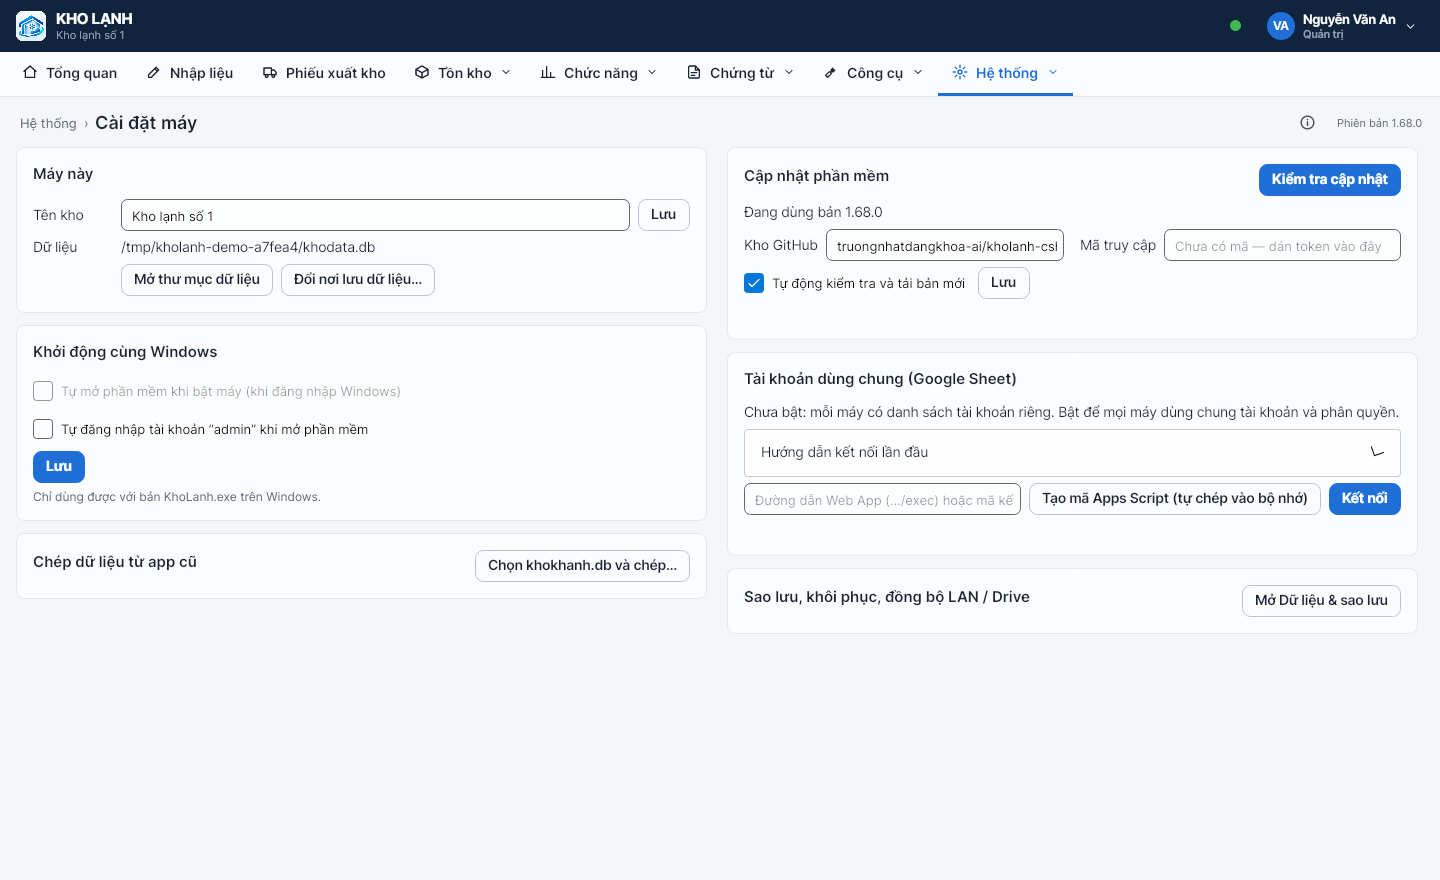
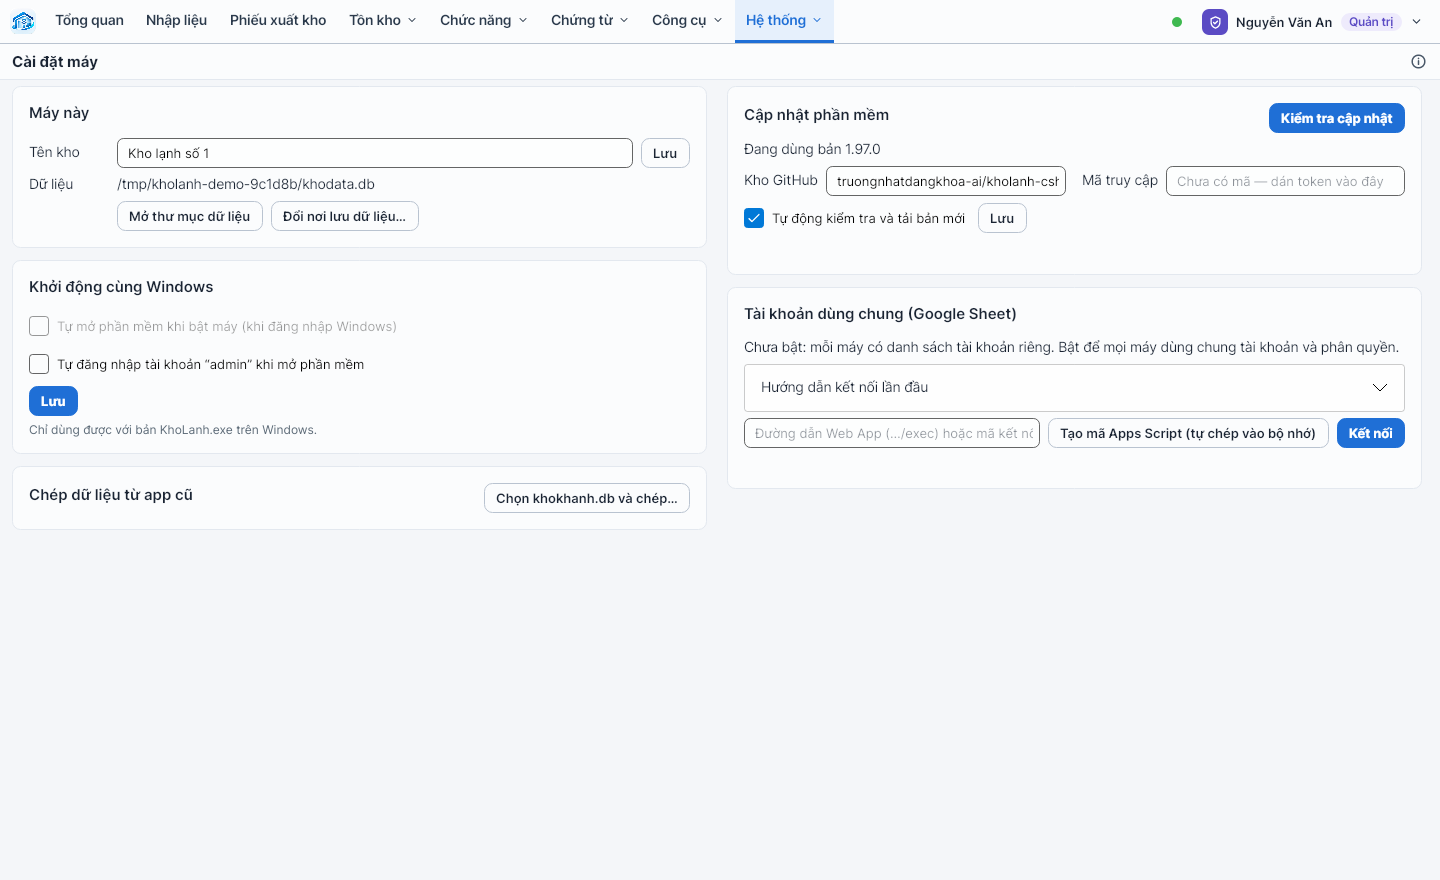
1.98.0: sắp xếp Hệ thống (Cài đặt máy gọn, bỏ máy ở nhà) + báo rõ lỗi tạo tài khoản
- Cài đặt máy: Chép dữ liệu từ app cũ chỉ Quản trị; bỏ khung Sao lưu / khôi phục
  (đã có ở Dữ liệu & sao lưu).
- Bỏ chế độ "máy ở nhà" của đồng bộ Drive (đã có Drive cá nhân).
- Tài khoản dùng chung: Web App trả lời kiểu app điện thoại (AUTH) → báo đường
  dẫn trỏ nhầm Web App điện thoại và cách sửa, thay câu khó hiểu.

Claude-Session: https://claude.ai/code/session_01CcL5zKPX6MXqPbz7cZL3gY

diff --git a/src/KhoLanh.App/Views/DriveSyncView.cs b/src/KhoLanh.App/Views/DriveSyncView.cs
@@ -31,7 +31,6 @@ public sealed class DriveSyncView : UserControl, IPage
     private StackPanel _planBox = null!;
     private readonly Dictionary<string, CheckBox> _mainBoxes = new(StringComparer.OrdinalIgnoreCase);
     private readonly DispatcherTimer _timer = new() { Interval = TimeSpan.FromSeconds(3) };
-    private readonly CheckBox _home = new() { Content = "Máy này ở NHÀ — luôn là máy xem từ xa, không tự nhận làm máy chính (máy công ty mở lại là tự gộp việc làm ở nhà)" };
     private readonly ComboBox _every = new() { ItemsSource = DriveSyncService.Intervals.Select(x => x.Label).ToList(), MinWidth = 330 };
     private readonly ListBox _bk = new() { Height = 150 };
     private readonly TextBlock _bkMsg = new() { Classes = { "muted" }, FontSize = 12, TextWrapping = TextWrapping.Wrap };
@@ -83,17 +82,15 @@ public sealed class DriveSyncView : UserControl, IPage
         planBtns.Children.Add(Btn("Lưu phân vai", async () => await SavePlan(), primary: true));
         planBtns.Children.Add(Btn("Chỉ lưu thư mục máy này", async () => { if (await Ui.Run(this, () => Svc.SetFolder((_dir.Text ?? "").Trim()))) _msg.Text = "Đã lưu thư mục Drive của máy này."; await Task.CompletedTask; }));
         planBtns.Children.Add(Btn("Chiếm quyền máy chính", async () => await Force()).Also(x => ToolTip.SetTip(x, "Chỉ dùng khi máy chính cũ đã tắt / treo.")));
-        // ----- máy ở nhà · chu kỳ
-        _home.Content = "Máy này ở NHÀ — luôn là máy xem từ xa";
-        ToolTip.SetTip(_home, "Ban ngày dùng LAN ở công ty; ban đêm máy ở nhà đồng bộ qua Drive. Việc làm ở nhà được máy chủ công ty tự gộp khi mở lại (trùng dòng → Quản trị chọn ở Mạng LAN).");
+        // ----- chu kỳ đồng bộ (1.98: bỏ chế độ "máy ở nhà" — đã có Drive cá nhân)
         _every.MinWidth = 200;
         var everyRow = new StackPanel { Orientation = Orientation.Horizontal, Spacing = 8, Children = { new TextBlock { Text = "Đồng bộ mỗi", VerticalAlignment = VerticalAlignment.Center }, _every, Btn("Lưu", async () => await SaveHome(), primary: true) } };
         // ----- sao lưu trên Drive
         _bkNow = Btn("☁ Sao lưu lên Drive ngay", async () => await BackupNow());
         var bkDl = Btn("⬇ Tải bản đã chọn về file .db…", async () => await DownloadSel());
-        ToolTip.SetTip(bkDl, "Máy công ty: tải về rồi khôi phục ở Sao lưu và cài đặt (Quản trị).");
+        ToolTip.SetTip(bkDl, "Máy công ty: tải về rồi khôi phục ở Cài đặt máy (Quản trị).");
         _bkRestore = Btn("⏪ Khôi phục máy này", async () => await RestoreSel());
-        ToolTip.SetTip(_bkRestore, "Máy ở nhà: chỉ ảnh hưởng máy này.");
+        ToolTip.SetTip(_bkRestore, "Máy xem từ xa: chỉ ảnh hưởng máy này.");
         var bkBtns = new WrapPanel { ItemSpacing = 6, LineSpacing = 6 };
         bkBtns.Children.Add(_bkNow); bkBtns.Children.Add(bkDl); bkBtns.Children.Add(_bkRestore); bkBtns.Children.Add(Btn("Tải lại", () => { LoadBackups(); return Task.CompletedTask; }));
         _bk.Height = 220;
@@ -102,7 +99,7 @@ public sealed class DriveSyncView : UserControl, IPage
         left.Children.Add(Card("Vai của máy này", null, _off, _main, _remote, new TextBlock { Text = "Thư mục Google Drive", FontSize = 12.5 }, dirRow, _mainPanel, _codePanel, buttons, _msg));
         left.Children.Add(Card("Phân vai theo tài khoản", "Khuyên dùng: không bao giờ có hai máy chính cùng ghi đè nhau.", _planOn, _planBox, planBtns));
         var right = new StackPanel { Spacing = 12 };
-        right.Children.Add(Card("Máy ở nhà & chu kỳ đồng bộ", null, _home, everyRow));
+        right.Children.Add(Card("Chu kỳ đồng bộ", null, everyRow));
         right.Children.Add(Card("Sao lưu trên Google Drive", "Máy chính tự sao lưu lên Drive mỗi ngày (mã hóa); giữ 14 ngày gần nhất + 1 bản mỗi tháng trong 12 tháng.", _bk, bkBtns, _bkMsg));
         var cols = new Grid { ColumnDefinitions = new ColumnDefinitions("*,*"), ColumnSpacing = 14 };
         cols.Children.Add(left); Grid.SetColumn(right, 1); cols.Children.Add(right);
@@ -121,7 +118,6 @@ public sealed class DriveSyncView : UserControl, IPage
         _dir.Text = Svc.Dir; _code.Text = "";
         _off.IsChecked = Svc.Mode == DriveSyncService.ModeOff; _main.IsChecked = Svc.Mode == DriveSyncService.ModeMain; _remote.IsChecked = Svc.Mode == DriveSyncService.ModeRemote;
         ShowPanels(); Refresh(); LoadPlan();
-        _home.IsChecked = Svc.IsHome;
         _every.SelectedIndex = Math.Max(0, Array.FindIndex(DriveSyncService.Intervals, x => x.Sec == Svc.IntervalSeconds));
         LoadBackups();
     }
@@ -139,15 +135,14 @@ public sealed class DriveSyncView : UserControl, IPage
 
     private async Task SaveHome()
     {
-        var sec = DriveSyncService.Intervals[Math.Max(0, _every.SelectedIndex)].Sec; var home = _home.IsChecked == true;
+        var sec = DriveSyncService.Intervals[Math.Max(0, _every.SelectedIndex)].Sec;
         if (!await Ui.Run(this, () =>
         {
             App.Services.Session.Require("backup");
-            Svc.SetHome(home); Svc.SetInterval(sec);
-            if (home && Svc.Mode == DriveSyncService.ModeMain && Svc.Enabled) { Svc.ReleaseOnExit(); Svc.BecomeRemote(App.Services); }
+            Svc.ClearOldHomeFlag(); Svc.SetInterval(sec);
             Svc.Stop(); Svc.Start();
         })) return;
-        _msg.Text = "Đã lưu: " + (home ? "máy ở nhà (luôn là máy xem từ xa)" : "máy bình thường") + " · đồng bộ " + DriveSyncService.Intervals[Math.Max(0, _every.SelectedIndex)].Label + ".";
+        _msg.Text = "Đã lưu: đồng bộ " + DriveSyncService.Intervals[Math.Max(0, _every.SelectedIndex)].Label + ".";
         Load();
     }
 
@@ -186,7 +181,7 @@ public sealed class DriveSyncView : UserControl, IPage
         _planBox.Children.Clear(); _mainBoxes.Clear();
         var acc = App.Services.Accounts; var plan = acc.Plan; var dp = plan?.Drive ?? new DrivePlan();
         _planOn.IsChecked = dp.On; _planOn.IsEnabled = acc.CanWrite;
-        if (!acc.Enabled) { _planBox.Children.Add(Note("Cần bật Tài khoản dùng chung (Google Sheet) ở Sao lưu và cài đặt để lưu phân vai.")); return; }
+        if (!acc.Enabled) { _planBox.Children.Add(Note("Cần bật Tài khoản dùng chung (Google Sheet) ở Cài đặt máy để lưu phân vai.")); return; }
         foreach (var u in App.Services.Auth.ListUsers().Where(u => u.IsActive).OrderBy(u => u.Username, StringComparer.OrdinalIgnoreCase))
         {
             var cb = new CheckBox { Content = $"{u.Username} — {u.FullName}  (máy chính)", IsChecked = dp.IsMain(u.Username), IsEnabled = acc.CanWrite };

diff --git a/src/KhoLanh.Core/Services/AccountSyncService.cs b/src/KhoLanh.Core/Services/AccountSyncService.cs
@@ -293,7 +293,7 @@ public class AccountSyncService
     /// </summary>
     public async Task<LanPlan> UpdatePlanAsync(Func<LanPlan, bool> change, CancellationToken ct = default)
     {
-        if (!Enabled) throw new BusinessException("Chưa bật tài khoản dùng chung (Google Sheet) — bật ở Sao lưu và cài đặt trước.");
+        if (!Enabled) throw new BusinessException("Chưa bật tài khoản dùng chung (Google Sheet) — bật ở Cài đặt máy trước.");
         if (!CanWrite) throw new BusinessException("Máy này không có mã quản trị nên không ghi được phân vai LAN lên Google Sheet.");
         var res = await CallAsync(Url, Token, "", "list", null, ct);
         var users = res["users"]?.AsArray() ?? new JsonArray();
@@ -545,6 +545,18 @@ public class AccountSyncService
         ConnectTimeout = TimeSpan.FromSeconds(10),
     }) { Timeout = TimeSpan.FromSeconds(60) };
 
+    /// <summary>
+    /// 1.98: đường dẫn "Tài khoản dùng chung" trỏ nhầm Web App của app ĐIỆN THOẠI (Code.gs của kholanh-csharp-mobile trả {ok:false, code:"AUTH",
+    /// "… Liên hệ người quản lý app PC."}) — hoặc Sheet tài khoản bị dán đè mã điện thoại. Trước đây báo nguyên câu đó → người dùng không hiểu vì sao không tạo được tài khoản.
+    /// </summary>
+    internal static bool LooksLikePhoneScript(JsonObject o) =>
+        o["code"]?.ToString() is "AUTH" or "NO_USER" || (o["error"]?.ToString() ?? "").Contains("người quản lý app PC", StringComparison.OrdinalIgnoreCase);
+    internal const string PhoneScriptMsg =
+        "Đường dẫn ở Cài đặt máy › Tài khoản dùng chung (Google Sheet) đang trỏ tới Web App của APP ĐIỆN THOẠI, không phải Web App tài khoản "
+        + "(hoặc Google Sheet tài khoản đã bị dán đè mã của app điện thoại). Cách sửa: mở Google Sheet tài khoản › Tiện ích mở rộng › Apps Script, "
+        + "dán lại mã từ nút \"Cập nhật mã Apps Script\" rồi Triển khai › Quản lý triển khai › Phiên bản mới; hoặc dán đúng đường dẫn …/exec của Sheet tài khoản "
+        + "rồi bấm Kết nối. Muốn tạo tài khoản ngay chỉ trên máy này: bấm \"Ngắt kết nối\" ở khung đó.";
+
     private async Task<JsonObject> CallAsync(string url, string token, string admin, string action, JsonObject? payload, CancellationToken ct = default)
     {
         var body = payload ?? new JsonObject();
@@ -568,7 +580,11 @@ public class AccountSyncService
             try { o = JsonNode.Parse(text) as JsonObject; } catch (JsonException) { }
             if (o is null)
                 throw new BusinessException($"Web App trả về trang lạ (HTTP {(int)res.StatusCode}). Kiểm tra: đường dẫn kết thúc bằng /exec và \"Ai có quyền truy cập\" là \"Bất kỳ ai\".");
-            if (o["ok"]?.GetValue<bool>() != true) throw new BusinessException(o["error"]?.ToString() ?? "Web App báo lỗi không rõ.");
+            if (o["ok"]?.GetValue<bool>() != true)
+            {
+                if (LooksLikePhoneScript(o)) throw new BusinessException(PhoneScriptMsg);
+                throw new BusinessException(o["error"]?.ToString() ?? "Web App báo lỗi không rõ.");
+            }
             return o;
         }
     }

diff --git a/tests/KhoLanh.Core.Tests/AccountSyncTests.cs b/tests/KhoLanh.Core.Tests/AccountSyncTests.cs
@@ -27,6 +27,8 @@ public class AccountSyncTests : IDisposable
         public string Token = "", Admin = "";
         public readonly List<Dictionary<string, string>> Rows = new();
         public bool Down;
+        /// <summary>1.98: giả lập Sheet tài khoản bị dán đè mã của app điện thoại (Code.gs trả AUTH cho mọi lệnh).</summary>
+        public bool PhoneScript;
         /// <summary>Đặt thì lệnh "list" chờ tới khi mở (giả lập Apps Script trả lời chậm).</summary>
         public TaskCompletionSource? Gate;
         public int Lists;
@@ -43,7 +45,8 @@ public class AccountSyncTests : IDisposable
         {
             Bodies.Add(text);
             JsonObject res;
-            if (r["token"]?.ToString() != Token) res = new() { ["ok"] = false, ["error"] = "Sai mã kết nối." };
+            if (PhoneScript) res = new() { ["ok"] = false, ["code"] = "AUTH", ["error"] = "Tên người dùng hoặc mã truy cập không đúng, hoặc tài khoản đã bị khóa. Liên hệ người quản lý app PC." };
+            else if (r["token"]?.ToString() != Token) res = new() { ["ok"] = false, ["error"] = "Sai mã kết nối." };
             else if (r["action"]?.ToString() == "list")
                 res = new() { ["ok"] = true, ["users"] = new JsonArray(Rows.Select(x => (JsonNode?)new JsonObject(x.Select(p => KeyValuePair.Create(p.Key, (JsonNode?)p.Value)))).ToArray()) };
             else if (r["adminKey"]?.ToString() != Admin) res = new() { ["ok"] = false, ["error"] = "Máy này không có mã quản trị nên không được sửa tài khoản." };
@@ -101,6 +104,20 @@ public class AccountSyncTests : IDisposable
         Assert.Equal(_web.Token, Between(up, "var MA_DOC = '", "'"));
         Assert.Equal(_web.Admin, Between(up, "var MA_QUAN_TRI = '", "'"));
         Assert.Contains("email_google", up);
+    }
+
+    [Fact]
+    public async Task Duong_dan_tro_nham_Web_App_dien_thoai_bao_ro_cach_sua()
+    {   // người dùng: "vì sao không tạo tài khoản được" — Sheet trả lời bằng mã của app điện thoại
+        var a = await AdminMachine();
+        _web.PhoneScript = true;
+        var ex = Assert.Throws<BusinessException>(() => a.Auth.CreateUser("khoa", "Khoa", "khoa1234", Roles.Admin));
+        Assert.Contains("APP ĐIỆN THOẠI", ex.Message);
+        Assert.Contains("Ngắt kết nối", ex.Message);
+        Assert.DoesNotContain(a.Auth.ListUsers(), u => u.Username == "khoa");   // chưa ghi được lên Sheet → máy không đổi
+        _web.PhoneScript = false;
+        a.Auth.CreateUser("khoa", "Khoa", "khoa1234", Roles.Admin);
+        Assert.Contains(_web.Rows, r => r["username"] == "khoa");
     }
 
     [Fact]

diff --git a/src/KhoLanh.Core/Lan/DriveSync.cs b/src/KhoLanh.Core/Lan/DriveSync.cs
@@ -46,8 +46,8 @@ public sealed class DriveSyncService
     public static readonly (int Sec, string Label)[] Intervals = { (45, "45 giây"), (300, "5 phút"), (900, "15 phút"), (1800, "30 phút"), (3600, "60 phút"), (0, "Chỉ khi mở app / bấm Đồng bộ ngay / thoát app") };
 
     /// <summary>MÁY Ở NHÀ: luôn là máy xem từ xa, không bao giờ tự nhận làm máy chính (trừ khi Quản trị bấm "Chiếm quyền" lúc máy công ty hỏng).</summary>
-    public bool IsHome => _settings.Get("drive_home") == "1";
-    public void SetHome(bool on) => _settings.Set("drive_home", on ? "1" : "");
+    // 1.98: bỏ chế độ "máy ở nhà" (đã có Drive cá nhân) — cờ cũ settings "drive_home" không còn tác dụng, xóa khi lưu chu kỳ đồng bộ.
+    public void ClearOldHomeFlag() { if (_settings.Get("drive_home").Length > 0) _settings.Set("drive_home", ""); }
 
     /// <summary>Tạo file sao lưu .db (BackupService.BackupTo) — máy chính dùng để sao lưu hằng ngày lên Drive.</summary>
     public Func<string, string>? MakeBackup { get; set; }
@@ -220,7 +220,6 @@ public sealed class DriveSyncService
             var lan = _lan();
             if (Dir.Length == 0 || Key().Length == 0 || !Directory.Exists(Dir)) throw new BusinessException("Chưa chọn thư mục Drive hoặc chưa có mã đồng bộ.");
             Directory.CreateDirectory(Root);
-            if (!force && IsHome) throw new BusinessException("Máy này được đánh dấu MÁY Ở NHÀ — luôn là máy xem từ xa. Chỉ dùng “Chiếm quyền máy chính” khi máy công ty hỏng.");
             if (!force && HeldByOther(lan) is { } o) throw new BusinessException($"Máy “{o.Name}” (tài khoản {o.User}) đang là máy chính.");
             Stop();
             var pending = lan.PendingItems();
@@ -324,7 +323,7 @@ public sealed class DriveSyncService
         return $"đã sao lưu lên Drive: {name} ({new FileInfo(path).Length / 1024:#,0} KB)";
     }
 
-    /// <summary>Giải mã 1 bản sao lưu trên Drive ra file .db (để khôi phục ở Sao lưu và cài đặt, hoặc khôi phục máy ở nhà).</summary>
+    /// <summary>Giải mã 1 bản sao lưu trên Drive ra file .db (để khôi phục ở Cài đặt máy, hoặc khôi phục máy ở nhà).</summary>
     public string DownloadBackup(string name, string toPath)
     {
         if (!System.Text.RegularExpressions.Regex.IsMatch(name, @"^b-\d{4}-\d{2}-\d{2}\.kldb$")) throw new BusinessException("Tên bản sao lưu không hợp lệ.");

diff --git a/src/KhoLanh.App/Views/BackupView.axaml.cs b/src/KhoLanh.App/Views/BackupView.axaml.cs
@@ -18,6 +18,7 @@ public partial class BackupView : UserControl, IPage
         WarehouseBox.Text = s.Settings.Get(SettingsService.WarehouseName);
         PathText.Text = s.Db.FilePath; ToolTip.SetTip(PathText, s.Db.FilePath);
         var admin = Roles.IsAdmin(s.Session.Role);
+        LegacyCard.IsVisible = admin;   // 1.98: chép dữ liệu app cũ chỉ Quản trị
         // Cập nhật online
         var u = s.Updates;
         UpdVersionText.Text = $"Đang dùng bản {UpdateService.Current}" + (AppUpdater.StagedVersion is { } sv ? $" · đã tải sẵn bản {sv}, chờ áp dụng" : "")
@@ -184,7 +185,6 @@ public partial class BackupView : UserControl, IPage
             AppUpdater.ExitForUpdate();
     }
 
-    private void OnOpenDuLieu(object? sender, RoutedEventArgs e) => MainWindow.Of(this)?.Navigate("saoluu");
 
     private async void OnSaveSettings(object? sender, RoutedEventArgs e)
     {
@@ -235,6 +235,7 @@ public partial class BackupView : UserControl, IPage
     /// </summary>
     private async void OnImportLegacy(object? sender, RoutedEventArgs e)
     {
+        if (!Roles.IsAdmin(App.Services.Session.Role)) { await Ui.Message(this, "Chỉ tài khoản Quản trị được chép dữ liệu từ app cũ."); return; }
         var path = await Ui.OpenFile(this, "Chọn database app cũ (khokhanh.db)", "db", "Database Kho Lạnh cũ");
         if (path is null) return;
         List<KhoLanh.Core.Modules.LegacyImporter.Group> groups = new();

diff --git a/tests/KhoLanh.Core.Tests/DriveSyncTests.cs b/tests/KhoLanh.Core.Tests/DriveSyncTests.cs
@@ -155,12 +155,11 @@ public class DriveSyncTests : IDisposable
         var home2 = Machine("nha2"); home2.Drive.Configure("xa", _drive, main.Drive.Code(), home2.Session); home2.ReloadLan(start: false);
         main.Lan.Write(Db, One("S", Rows("a"))); main.Lan.Write(Db, One("T", Rows("t")));
         main.Drive.SyncNow(); main.Drive.ReleaseOnExit();                          // chiều: máy công ty tắt app
-        home1.Drive.SetHome(true); home2.Drive.SetHome(true);
+        // 1.98: bỏ chế độ "máy ở nhà" — 2 máy xem từ xa vẫn làm độc lập rồi gộp như cũ
         home1.Drive.SyncNow(); home2.Drive.SyncNow();
         home1.Lan.Write(Db, One("S", Rows("a", "nha1")));                          // tối: 2 máy nhà làm độc lập
         home2.Lan.Write(Db, One("T", Rows("t", "nha2")));
         home1.Drive.ReleaseOnExit(); home2.Drive.ReleaseOnExit();                  // tắt app → gửi nốt
-        Assert.Throws<KhoLanh.Core.Services.BusinessException>(() => home1.Drive.BecomeMain(home1, "admin"));   // máy nhà không tự làm máy chính
         main.Drive.SyncNow();                                                       // sáng: máy công ty mở lại → gộp
         Assert.Equal("a,nha1", Names(main.Lan.Read(Db, "S")));
         Assert.Equal("t,nha2", Names(main.Lan.Read(Db, "T")));

diff --git a/src/KhoLanh.Core/Lan/LanService.cs b/src/KhoLanh.Core/Lan/LanService.cs
@@ -1138,7 +1138,7 @@ public sealed partial class LanService : ISheetSource, IDisposable
         ModuleStore.CheckName("database", dbKey);
         foreach (var n in sheets.Keys) ModuleStore.CheckName("sheet", n);
         if (Role == RoleRemote && _session.CurrentUser is not null && !_session.Can("drivepush", Models.Perm.Edit))
-            throw new BusinessException("Tài khoản này chỉ được XEM ở máy ngoài công ty (chưa được cấp quyền «Gửi dữ liệu từ máy ở nhà») — liên hệ Quản trị.");
+            throw new BusinessException("Tài khoản này chỉ được XEM ở máy ngoài công ty (chưa được cấp quyền «Gửi dữ liệu từ máy xem từ xa») — liên hệ Quản trị.");
         var raw = sheets.ToDictionary(p => p.Key, p => p.Value is null ? null : ModuleStore.CleanRows(p.Value));
         Dictionary<string, long> Exp() => raw.Keys.Where(s => _readVersions.ContainsKey(K(dbKey, s))).ToDictionary(s => s, s => _readVersions[K(dbKey, s)]);
         if (!Enabled)

diff --git a/src/KhoLanh.Core/Models/Permissions.cs b/src/KhoLanh.Core/Models/Permissions.cs
@@ -40,7 +40,7 @@ public static class Perm
         new("backup", "Sao lưu và cài đặt", "Hệ thống", new[] { Edit }, "Sao lưu, khôi phục, chép dữ liệu app cũ"),
         new("audit", "Nhật ký thao tác", "Hệ thống", new[] { View }, ""),
         new("phone", "Đồng bộ điện thoại", "Hệ thống", new[] { Edit }, "Kết nối Web App, đẩy tồn các module lên điện thoại, nhận phiếu xuất điện thoại tạo (mỗi bảng chỉ khi được xem module đó)"),
-        new("drivepush", "Gửi dữ liệu từ máy ở nhà (Drive)", "Hệ thống", new[] { Edit }, "Không có quyền thì máy ở nhà / máy ngoài công ty chỉ xem, không sửa được"),
+        new("drivepush", "Gửi dữ liệu từ máy xem từ xa (Drive)", "Hệ thống", new[] { Edit }, "Không có quyền thì máy xem từ xa (ngoài công ty) chỉ xem, không sửa được"),
     };
 
     /// <summary>

diff --git a/src/KhoLanh.App/Views/KhangSinhView.cs b/src/KhoLanh.App/Views/KhangSinhView.cs
@@ -161,7 +161,7 @@ public sealed partial class KhangSinhView : UserControl, IPage
     {
         var l1 = Svc.Records.Count(r => r.HasLan1); var kl = Svc.Records.Sum(r => r.Lan2.Count);
         _info.Text = Svc.Records.Count == 0
-            ? "Chưa có kết quả nào. Nhập theo lô / từ Excel, hoặc chép dữ liệu app cũ ở Sao lưu và cài đặt › Chép dữ liệu từ app cũ."
+            ? "Chưa có kết quả nào. Nhập theo lô / từ Excel, hoặc chép dữ liệu app cũ ở Cài đặt máy › Chép dữ liệu từ app cũ."
             : $"{Svc.Records.Count:#,0} lô · {l1:#,0} kết quả lần 1 · {kl:#,0} kết quả kiểm lại · quy định {Svc.Rules.Count} trường hợp" + (Svc.RulesCustom ? " (đã sửa)" : "");
     }
     private async Task<bool> Act(Action a, string? okMsg = null)

diff --git a/src/KhoLanh.Core/Data/DataLocation.cs b/src/KhoLanh.Core/Data/DataLocation.cs
@@ -4,7 +4,7 @@ namespace KhoLanh.Core.Data;
 
 /// <summary>
 /// Nơi lưu database. Máy mới cài lần đầu → hỏi người dùng chọn thư mục (gợi ý %LOCALAPPDATA%\KhoLanhCS).
-/// Lựa chọn ghi vào file trỏ "noi-luu-du-lieu.txt" trong thư mục mặc định; đổi lại được ở Sao lưu và cài đặt.
+/// Lựa chọn ghi vào file trỏ "noi-luu-du-lieu.txt" trong thư mục mặc định; đổi lại được ở Cài đặt máy.
 /// Máy đã có dữ liệu ở thư mục mặc định (cài từ bản trước) → dùng luôn, không hỏi.
 /// </summary>
 public sealed class DataLocation

diff --git a/src/KhoLanh.App/Views/BootSettings.cs b/src/KhoLanh.App/Views/BootSettings.cs
@@ -2,7 +2,7 @@ using Avalonia.Controls;
 
 namespace KhoLanh.App.Views;
 
-/// <summary>Khởi động cùng Windows + tự đăng nhập — dùng ở Sao lưu và cài đặt và ở menu tài khoản (mọi tài khoản, cài theo máy).</summary>
+/// <summary>Khởi động cùng Windows + tự đăng nhập — dùng ở Cài đặt máy và ở menu tài khoản (mọi tài khoản, cài theo máy).</summary>
 public static class BootSettings
 {
     // ---------------- Khởi động cùng Windows + tự đăng nhập (mọi tài khoản, cài theo máy) ----------------

diff --git a/src/KhoLanh.Core/Lan/DrivePlanSync.cs b/src/KhoLanh.Core/Lan/DrivePlanSync.cs
@@ -18,7 +18,7 @@ public static class DrivePlanSync
             return "Đồng bộ Drive: máy này chưa chọn thư mục Google Drive (Hệ thống › Dữ liệu & sao lưu › Đồng bộ › Thư mục / Google Drive dùng chung › Chọn thư mục).";
         drive.SetKey(dp.Key);
         drive.CurrentUser = user;
-        var wantMain = dp.IsMain(user) && !drive.IsHome;   // máy ở nhà luôn là máy xem từ xa
+        var wantMain = dp.IsMain(user);
         string msg;
         if (wantMain)
         {
